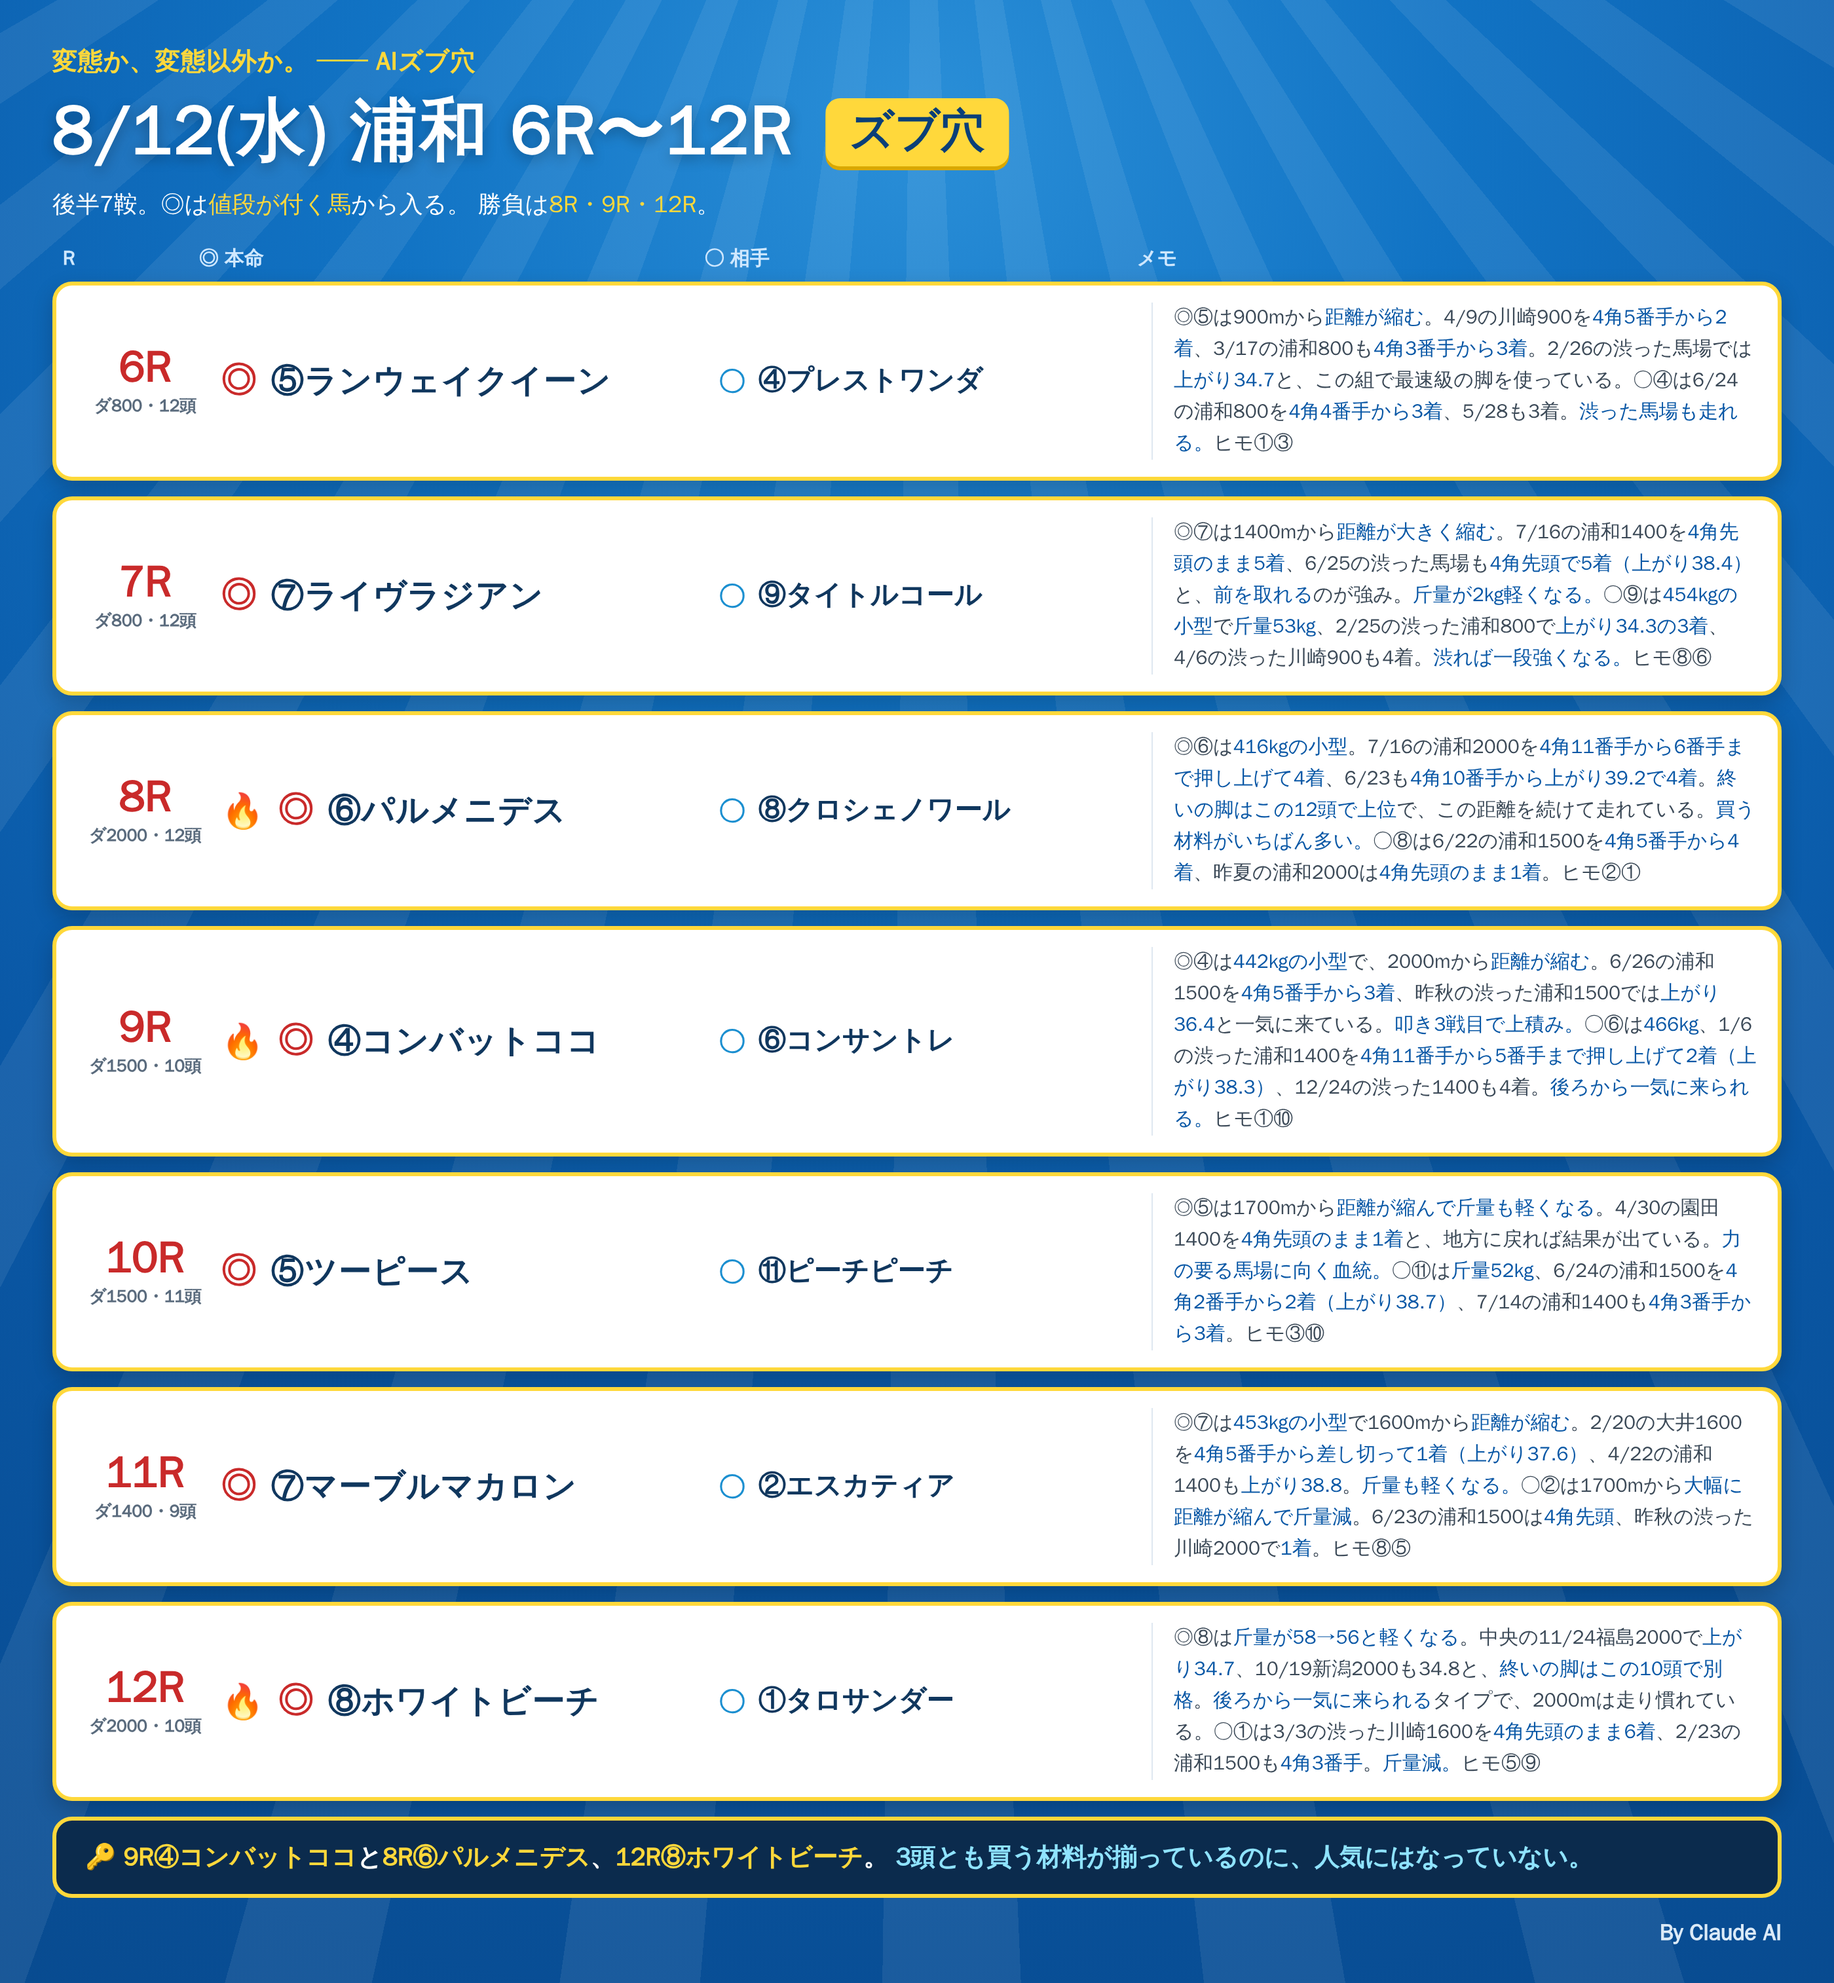
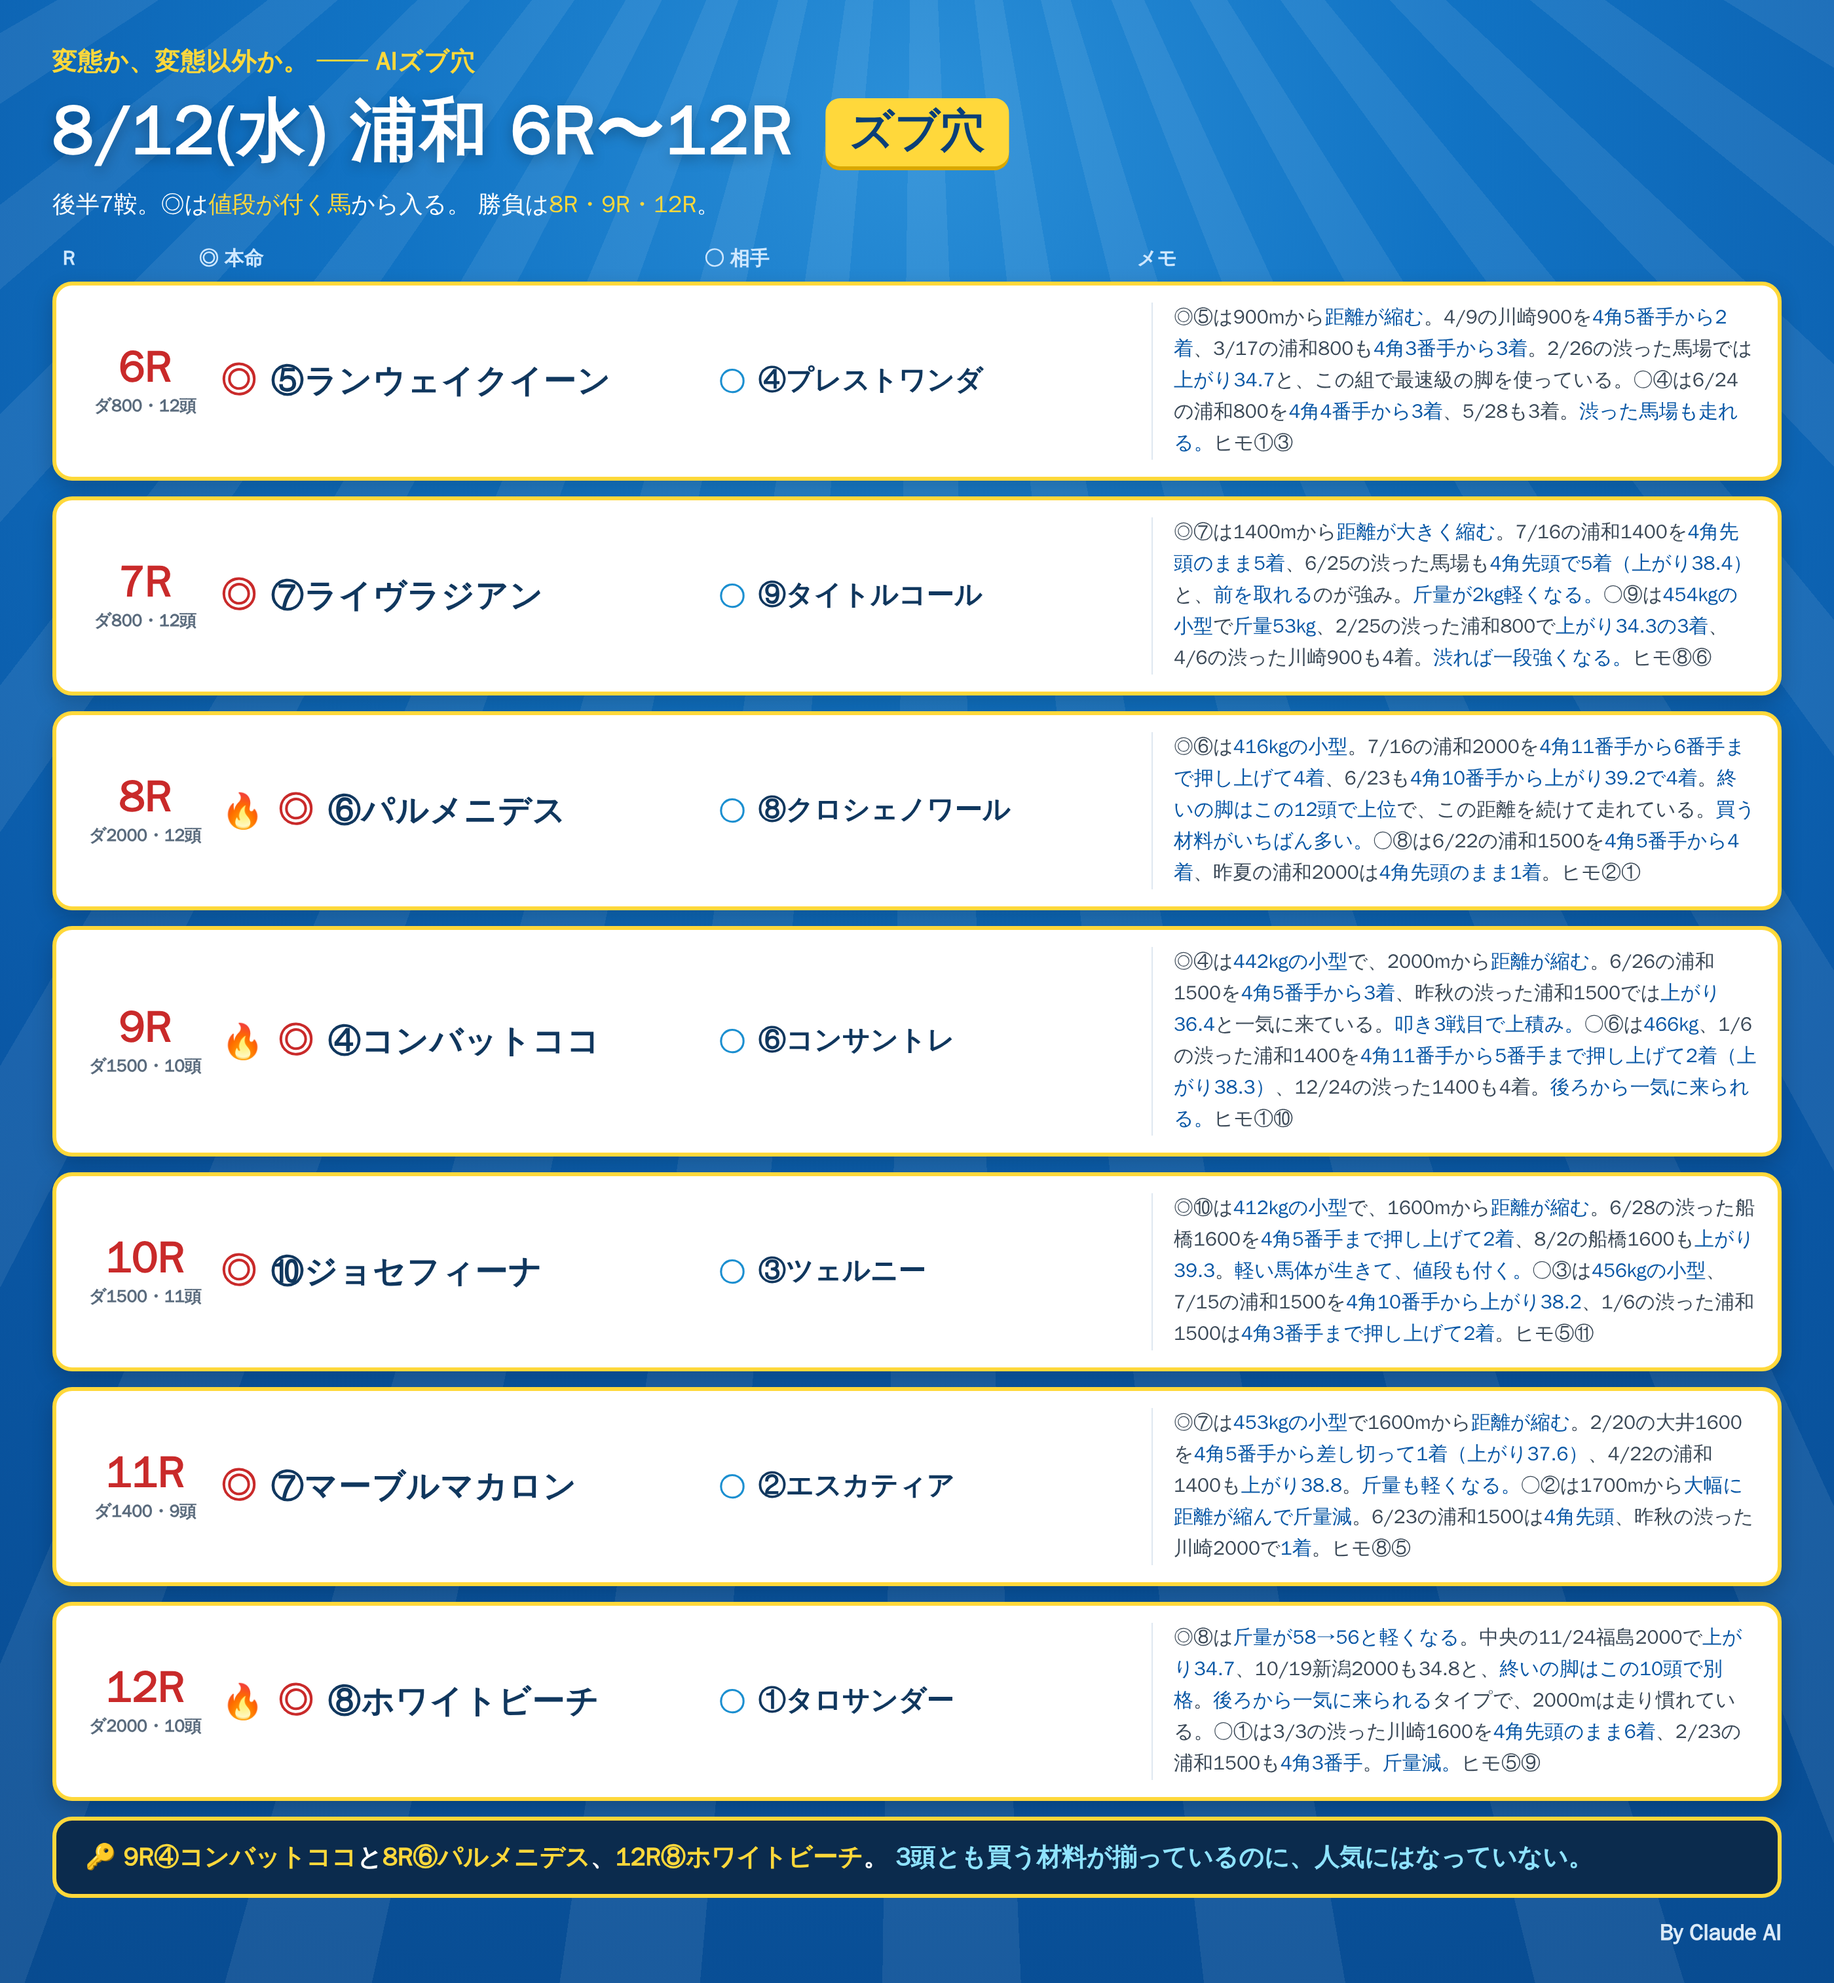
8/12浦和 10R 印変更（◎⑩ジョセフィーナ ○③ツェルニー）

Changed region(s): [[0.6214, 0.5898, 0.9632, 0.683], [0.1554, 0.6209, 0.2486, 0.6519], [0.435, 0.6209, 0.4971, 0.6519]]

diff --git a/notes/live/2026-08-12/urawa_6_12.html b/notes/live/2026-08-12/urawa_6_12.html
@@ -80,9 +80,9 @@
 
   <div class="row">
     <div class="rN"><div class="n">10R</div><div class="d">ダ1500・11頭</div></div>
-    <div class="hm"><span class="mk">◎</span><span class="nm">⑤ツーピース</span></div>
-    <div class="at"><span class="mk2">○</span><span class="nm2">⑪ピーチピーチ</span></div>
-    <div class="memo">◎⑤は1700mから<b>距離が縮んで斤量も軽くなる</b>。4/30の園田1400を<b>4角先頭のまま1着</b>と、地方に戻れば結果が出ている。<b>力の要る馬場に向く血統。</b>○⑪は<b>斤量52kg</b>、6/24の浦和1500を<b>4角2番手から2着（上がり38.7）</b>、7/14の浦和1400も<b>4角3番手から3着</b>。ヒモ③⑩</div>
+    <div class="hm"><span class="mk">◎</span><span class="nm">⑩ジョセフィーナ</span></div>
+    <div class="at"><span class="mk2">○</span><span class="nm2">③ツェルニー</span></div>
+    <div class="memo">◎⑩は<b>412kgの小型</b>で、1600mから<b>距離が縮む</b>。6/28の渋った船橋1600を<b>4角5番手まで押し上げて2着</b>、8/2の船橋1600も<b>上がり39.3</b>。<b>軽い馬体が生きて、値段も付く。</b>○③は<b>456kgの小型</b>、7/15の浦和1500を<b>4角10番手から上がり38.2</b>、1/6の渋った浦和1500は<b>4角3番手まで押し上げて2着</b>。ヒモ⑤⑪</div>
   </div>
 
   <div class="row">
